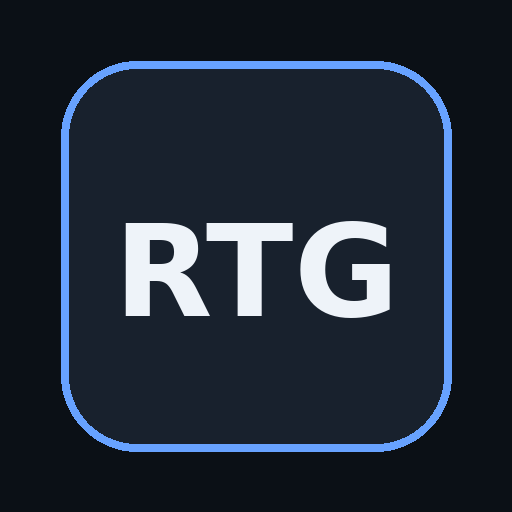
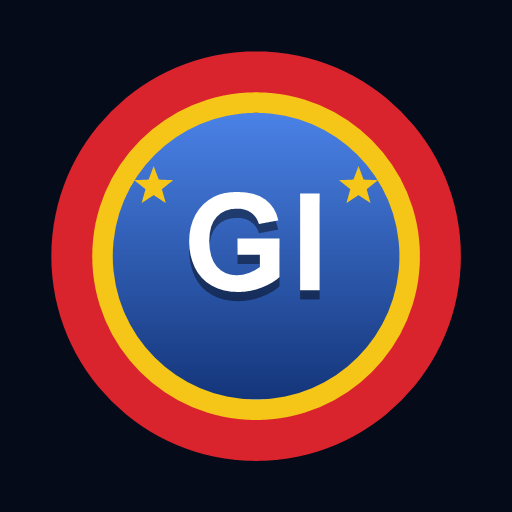
V6 : theme GIGN (bleu, or, rouge), nouvelles icones, signal du chrono plus long

diff --git a/index.html b/index.html
@@ -3,7 +3,7 @@
 <head>
   <meta charset="UTF-8">
   <meta name="viewport" content="width=device-width, initial-scale=1, viewport-fit=cover">
-  <meta name="theme-color" content="#0c1118">
+  <meta name="theme-color" content="#050b18">
   <meta name="color-scheme" content="dark">
   <meta name="description" content="ROAD TO GI : programme d'entraînement, charges, chronos et suivi, utilisable hors ligne.">
   <meta name="apple-mobile-web-app-capable" content="yes">
@@ -11,7 +11,7 @@
   <meta name="apple-mobile-web-app-title" content="ROAD TO GI">
   <title>ROAD TO GI</title>
   <style>
-:root{--bg:#0b1016;--surface:#121923;--surface2:#18212d;--line:#273240;--text:#eef3f9;--muted:#8f9dad;--accent:#67a2ff;--accent2:#2c66b8;--good:#58d39b;--warn:#f2bb5f;--danger:#ff6b73;--shadow:0 10px 30px rgba(0,0,0,.22)}*{box-sizing:border-box}html{background:var(--bg)}body{margin:0;background:var(--bg);color:var(--text);font-family:Inter,ui-sans-serif,system-ui,-apple-system,BlinkMacSystemFont,"Segoe UI",sans-serif;min-height:100vh}button,input,select,textarea{font:inherit}button{cursor:pointer}.shell{width:min(820px,100%);margin:auto;min-height:100vh;padding-bottom:92px}.topbar{position:sticky;top:0;z-index:20;background:rgba(11,16,22,.94);backdrop-filter:blur(16px);border-bottom:1px solid var(--line);padding:14px 16px;display:flex;align-items:center;justify-content:space-between;gap:12px}.brand{display:flex;align-items:center;gap:11px;min-width:0}.brandmark{width:42px;height:42px;border-radius:12px;background:var(--surface2);display:grid;place-items:center;border:1px solid var(--line);font-weight:900;color:var(--accent)}.brand h1{font-size:17px;letter-spacing:1.4px;margin:0}.brand p{font-size:12px;color:var(--muted);margin:2px 0 0}.top-controls{display:flex;gap:8px}.compact-select{appearance:none;border:1px solid var(--line);background:var(--surface);color:var(--text);border-radius:10px;padding:9px 26px 9px 10px;font-size:12px}.main{padding:16px}.hero{background:linear-gradient(135deg,#172230,#101720);border:1px solid var(--line);border-radius:20px;padding:20px;margin-bottom:14px;box-shadow:var(--shadow)}.eyebrow{font-size:11px;letter-spacing:1.6px;font-weight:800;color:var(--accent);margin:0 0 8px}.hero h2{font-size:28px;line-height:1.05;margin:0 0 8px}.muted{color:var(--muted)}.hero p{margin:0}.hero-actions{display:flex;gap:10px;flex-wrap:wrap;margin-top:16px}.btn{border:1px solid var(--line);background:var(--surface2);color:var(--text);min-height:44px;border-radius:11px;padding:10px 14px;font-weight:750}.btn.primary{background:var(--accent);color:#07111e;border-color:transparent}.btn.good{background:var(--good);color:#082015;border-color:transparent}.btn.danger{color:#ffdfe1;border-color:#6b3037;background:#25161a}.btn.ghost{background:transparent}.grid{display:grid;gap:12px}.stats{grid-template-columns:repeat(4,minmax(0,1fr));margin-bottom:14px}.stat{background:var(--surface);border:1px solid var(--line);border-radius:15px;padding:14px;min-width:0}.stat span{font-size:11px;color:var(--muted);display:block;margin-bottom:6px}.stat strong{font-size:18px;display:block;overflow-wrap:anywhere}.card{background:var(--surface);border:1px solid var(--line);border-radius:16px;padding:16px;margin-bottom:12px}.card h3,.card h4{margin:0}.card-head{display:flex;justify-content:space-between;gap:10px;align-items:center;margin-bottom:12px}.tag{display:inline-flex;align-items:center;gap:6px;padding:6px 9px;border-radius:999px;background:#1b2b41;color:#a8caff;font-size:11px;font-weight:800}.progress{height:9px;background:#202a36;border-radius:999px;overflow:hidden}.progress>div{height:100%;background:var(--accent);border-radius:inherit}.schedule{display:grid;gap:7px}.schedule-row{border:1px solid var(--line);background:var(--surface2);border-radius:12px;padding:12px;display:grid;grid-template-columns:90px 1fr auto;align-items:center;gap:8px}.schedule-row.today{border-color:#4d82c5;background:#162236}.schedule-row .day{font-size:11px;color:var(--accent);font-weight:900}.schedule-row .kind{font-size:13px;font-weight:700}.schedule-row .arrow{color:var(--muted)}.section-title{font-size:22px;margin:6px 0 14px}.tabs{display:flex;gap:8px;overflow-x:auto;padding-bottom:8px;margin-bottom:8px}.tab{white-space:nowrap;border:1px solid var(--line);background:var(--surface);color:var(--muted);border-radius:999px;padding:9px 12px}.tab.active{background:#1d3350;color:#cfe1ff;border-color:#426a9f}.source-block{white-space:pre-wrap;line-height:1.5;color:#d8e0e9;font-size:13px;background:#0e141c;border:1px solid var(--line);border-radius:12px;padding:13px;max-height:330px;overflow:auto}.source-block.expanded{max-height:none}.source-toggle{margin-top:10px}.worklist{display:grid;gap:7px}.workitem{display:grid;grid-template-columns:36px 1fr;gap:10px;align-items:flex-start;background:var(--surface2);border:1px solid var(--line);padding:11px;border-radius:12px}.workitem input{width:22px;height:22px;margin:1px 0}.workitem.done{opacity:.55}.workitem.done .worktext{text-decoration:line-through}.worktext{font-size:13px;line-height:1.38}.force-grid{display:grid;gap:8px}.force-row{display:grid;grid-template-columns:1fr 80px 76px 44px;gap:7px;align-items:center;background:var(--surface2);border:1px solid var(--line);border-radius:12px;padding:10px}.force-row input{width:100%;background:#0d141c;color:var(--text);border:1px solid var(--line);border-radius:8px;padding:8px}.force-row .check{width:40px;height:40px;border-radius:9px;border:1px solid var(--line);background:#0f1720;color:var(--text)}.force-row .check.done{background:var(--good);color:#062116}.timer-panel{text-align:center}.timer-display{font-variant-numeric:tabular-nums;font-size:54px;font-weight:900;letter-spacing:1px;margin:4px 0 12px}.timer-status{font-size:12px;color:var(--muted);min-height:18px}.quick-timers{display:flex;gap:7px;flex-wrap:wrap;justify-content:center;margin-top:10px}.quick-timers button{min-width:60px}.form-grid{display:grid;grid-template-columns:repeat(2,minmax(0,1fr));gap:12px}.field label{display:block;color:var(--muted);font-size:12px;margin-bottom:6px}.field input,.field select{width:100%;min-height:46px;background:#0d141c;color:var(--text);border:1px solid var(--line);border-radius:10px;padding:10px 12px;font-size:16px}.notice{padding:12px;border:1px solid #405472;border-radius:12px;background:#142033;color:#cbdcff;font-size:13px;line-height:1.45}.history-row{display:grid;grid-template-columns:1fr auto;gap:10px;padding:12px 0;border-bottom:1px solid var(--line)}.history-row:last-child{border-bottom:0}.history-row small{color:var(--muted)}.bottomnav{position:fixed;left:50%;bottom:0;transform:translateX(-50%);width:min(820px,100%);height:76px;background:rgba(11,16,22,.97);border-top:1px solid var(--line);display:grid;grid-template-columns:repeat(6,1fr);z-index:30;padding-bottom:env(safe-area-inset-bottom)}.navbtn{border:0;background:transparent;color:#798797;display:flex;flex-direction:column;gap:4px;align-items:center;justify-content:center;font-size:10px}.navbtn b{font-size:18px}.navbtn.active{color:var(--accent)}.empty{padding:26px;text-align:center;color:var(--muted)}.pill-row{display:flex;gap:8px;flex-wrap:wrap}.result{font-size:13px;line-height:1.55}.result strong{color:#fff}.divider{height:1px;background:var(--line);margin:14px 0}.sr-only{position:absolute;width:1px;height:1px;padding:0;margin:-1px;overflow:hidden;clip:rect(0,0,0,0);white-space:nowrap;border:0}@media(max-width:640px){.stats{grid-template-columns:repeat(2,minmax(0,1fr))}.form-grid{grid-template-columns:1fr}.schedule-row{grid-template-columns:74px 1fr 16px}.force-row{grid-template-columns:1fr 65px 65px 40px}.top-controls{gap:5px}.compact-select{padding-left:8px;padding-right:20px}.hero h2{font-size:24px}.timer-display{font-size:46px}.main{padding:12px}}
+:root{--bg:#050b18;--surface:#0b1730;--surface2:#11224a;--line:#223a70;--text:#f3f6fc;--muted:#94a3c4;--accent:#f5c518;--accent2:#2f64c8;--good:#58d39b;--warn:#f2bb5f;--danger:#ff4f58;--shadow:0 10px 30px rgba(0,0,0,.22)}*{box-sizing:border-box}html{background:var(--bg)}body{margin:0;background:var(--bg);color:var(--text);font-family:Inter,ui-sans-serif,system-ui,-apple-system,BlinkMacSystemFont,"Segoe UI",sans-serif;min-height:100vh}button,input,select,textarea{font:inherit}button{cursor:pointer}.shell{width:min(820px,100%);margin:auto;min-height:100vh;padding-bottom:92px}.topbar{position:sticky;top:0;z-index:20;background:rgba(5,11,24,.94);backdrop-filter:blur(16px);border-bottom:1px solid var(--line);padding:14px 16px;display:flex;align-items:center;justify-content:space-between;gap:12px}.brand{display:flex;align-items:center;gap:11px;min-width:0}.brandmark{width:42px;height:42px;border-radius:12px;background:var(--surface2);display:grid;place-items:center;border:1px solid var(--line);font-weight:900;color:var(--accent)}.brand h1{font-size:17px;letter-spacing:1.4px;margin:0}.brand p{font-size:12px;color:var(--muted);margin:2px 0 0}.top-controls{display:flex;gap:8px}.compact-select{appearance:none;border:1px solid var(--line);background:var(--surface);color:var(--text);border-radius:10px;padding:9px 26px 9px 10px;font-size:12px}.main{padding:16px}.hero{background:linear-gradient(135deg,#16356f,#0a1631);border:1px solid var(--line);border-radius:20px;padding:20px;margin-bottom:14px;box-shadow:var(--shadow)}.eyebrow{font-size:11px;letter-spacing:1.6px;font-weight:800;color:var(--accent);margin:0 0 8px}.hero h2{font-size:28px;line-height:1.05;margin:0 0 8px}.muted{color:var(--muted)}.hero p{margin:0}.hero-actions{display:flex;gap:10px;flex-wrap:wrap;margin-top:16px}.btn{border:1px solid var(--line);background:var(--surface2);color:var(--text);min-height:44px;border-radius:11px;padding:10px 14px;font-weight:750}.btn.primary{background:var(--accent);color:#050b18;border-color:transparent}.btn.good{background:var(--good);color:#082015;border-color:transparent}.btn.danger{color:#ffdfe1;border-color:#7a232b;background:#2a1219}.btn.ghost{background:transparent}.grid{display:grid;gap:12px}.stats{grid-template-columns:repeat(4,minmax(0,1fr));margin-bottom:14px}.stat{background:var(--surface);border:1px solid var(--line);border-radius:15px;padding:14px;min-width:0}.stat span{font-size:11px;color:var(--muted);display:block;margin-bottom:6px}.stat strong{font-size:18px;display:block;overflow-wrap:anywhere}.card{background:var(--surface);border:1px solid var(--line);border-radius:16px;padding:16px;margin-bottom:12px}.card h3,.card h4{margin:0}.card-head{display:flex;justify-content:space-between;gap:10px;align-items:center;margin-bottom:12px}.tag{display:inline-flex;align-items:center;gap:6px;padding:6px 9px;border-radius:999px;background:#1a2f63;color:#ffd84d;font-size:11px;font-weight:800}.progress{height:9px;background:#16275a;border-radius:999px;overflow:hidden}.progress>div{height:100%;background:var(--accent);border-radius:inherit}.schedule{display:grid;gap:7px}.schedule-row{border:1px solid var(--line);background:var(--surface2);border-radius:12px;padding:12px;display:grid;grid-template-columns:90px 1fr auto;align-items:center;gap:8px}.schedule-row.today{border-color:#f5c518;background:#14295c}.schedule-row .day{font-size:11px;color:var(--accent);font-weight:900}.schedule-row .kind{font-size:13px;font-weight:700}.schedule-row .arrow{color:var(--muted)}.section-title{font-size:22px;margin:6px 0 14px}.tabs{display:flex;gap:8px;overflow-x:auto;padding-bottom:8px;margin-bottom:8px}.tab{white-space:nowrap;border:1px solid var(--line);background:var(--surface);color:var(--muted);border-radius:999px;padding:9px 12px}.tab.active{background:#1b3770;color:#fff1b8;border-color:#d8ac12}.source-block{white-space:pre-wrap;line-height:1.5;color:#dbe3f3;font-size:13px;background:#070f22;border:1px solid var(--line);border-radius:12px;padding:13px;max-height:330px;overflow:auto}.source-block.expanded{max-height:none}.source-toggle{margin-top:10px}.worklist{display:grid;gap:7px}.workitem{display:grid;grid-template-columns:36px 1fr;gap:10px;align-items:flex-start;background:var(--surface2);border:1px solid var(--line);padding:11px;border-radius:12px}.workitem input{width:22px;height:22px;margin:1px 0}.workitem.done{opacity:.55}.workitem.done .worktext{text-decoration:line-through}.worktext{font-size:13px;line-height:1.38}.force-grid{display:grid;gap:8px}.force-row{display:grid;grid-template-columns:1fr 80px 76px 44px;gap:7px;align-items:center;background:var(--surface2);border:1px solid var(--line);border-radius:12px;padding:10px}.force-row input{width:100%;background:#070f22;color:var(--text);border:1px solid var(--line);border-radius:8px;padding:8px}.force-row .check{width:40px;height:40px;border-radius:9px;border:1px solid var(--line);background:#09142b;color:var(--text)}.force-row .check.done{background:var(--good);color:#062116}.timer-panel{text-align:center}.timer-display{font-variant-numeric:tabular-nums;font-size:54px;font-weight:900;letter-spacing:1px;margin:4px 0 12px}.timer-status{font-size:12px;color:var(--muted);min-height:18px}.quick-timers{display:flex;gap:7px;flex-wrap:wrap;justify-content:center;margin-top:10px}.quick-timers button{min-width:60px}.form-grid{display:grid;grid-template-columns:repeat(2,minmax(0,1fr));gap:12px}.field label{display:block;color:var(--muted);font-size:12px;margin-bottom:6px}.field input,.field select{width:100%;min-height:46px;background:#070f22;color:var(--text);border:1px solid var(--line);border-radius:10px;padding:10px 12px;font-size:16px}.notice{padding:12px;border:1px solid #2f4f94;border-radius:12px;background:#0f2250;color:#dbe6ff;font-size:13px;line-height:1.45}.history-row{display:grid;grid-template-columns:1fr auto;gap:10px;padding:12px 0;border-bottom:1px solid var(--line)}.history-row:last-child{border-bottom:0}.history-row small{color:var(--muted)}.bottomnav{position:fixed;left:50%;bottom:0;transform:translateX(-50%);width:min(820px,100%);height:76px;background:rgba(5,11,24,.97);border-top:1px solid var(--line);display:grid;grid-template-columns:repeat(6,1fr);z-index:30;padding-bottom:env(safe-area-inset-bottom)}.navbtn{border:0;background:transparent;color:#8191b5;display:flex;flex-direction:column;gap:4px;align-items:center;justify-content:center;font-size:10px}.navbtn b{font-size:18px}.navbtn.active{color:var(--accent)}.empty{padding:26px;text-align:center;color:var(--muted)}.pill-row{display:flex;gap:8px;flex-wrap:wrap}.result{font-size:13px;line-height:1.55}.result strong{color:#fff}.divider{height:1px;background:var(--line);margin:14px 0}.sr-only{position:absolute;width:1px;height:1px;padding:0;margin:-1px;overflow:hidden;clip:rect(0,0,0,0);white-space:nowrap;border:0}@media(max-width:640px){.stats{grid-template-columns:repeat(2,minmax(0,1fr))}.form-grid{grid-template-columns:1fr}.schedule-row{grid-template-columns:74px 1fr 16px}.force-row{grid-template-columns:1fr 65px 65px 40px}.top-controls{gap:5px}.compact-select{padding-left:8px;padding-right:20px}.hero h2{font-size:24px}.timer-display{font-size:46px}.main{padding:12px}}
   
 /* Modification rapide des RM */
 .rm-head{
@@ -51,7 +51,7 @@
     padding:10px;
     border:1px solid var(--line);
     border-radius:12px;
-    background:#0d141c;
+    background:#070f22;
 }
 .rm-inline-editor label{
     flex:1;
@@ -66,7 +66,7 @@
     padding:8px 10px;
     border:1px solid var(--line);
     border-radius:9px;
-    background:#0a1016;
+    background:#050c1b;
     color:var(--text);
     font-size:16px;
 }
@@ -78,7 +78,7 @@
 }
 .course-session-tabs .btn.active{
     background:var(--accent);
-    color:#fff;
+    color:#050b18;
     border-color:var(--accent);
 }
 .rm-form-grid{
@@ -106,10 +106,10 @@
 .renfo-row input[type=checkbox]{width:22px;height:22px}.renfo-row label{display:inline-flex;gap:8px;align-items:center}.renfo-options{width:100%;margin:12px 0}.timer-label{min-height:24px;line-height:1.5}.timer-panel{scroll-margin-top:85px}.renfo-complete{opacity:.6}
 
 .inline-timing{margin-top:10px}.inline-timing>.btn{font-size:12px;max-width:100%;text-align:left}.inline-timer-live{margin-top:10px;border-top:1px solid var(--line);padding-top:12px}.inline-timer-time{display:inline-block;font-size:32px;font-variant-numeric:tabular-nums;margin-right:12px}.inline-timer-status{color:var(--accent);font-size:12px}.inline-timer-label{font-size:12px;line-height:1.5;overflow-wrap:anywhere}.inline-timer-live .btn{font-size:12px}.workitem>div{min-width:0}
-.circuit-chrono{padding:16px;background:#15263b;border:1px solid #426a9f;border-radius:14px;margin-bottom:16px}.circuit-timer-display{font-size:42px;font-weight:900;font-variant-numeric:tabular-nums;margin:12px 0}.circuit-timer-label{font-size:13px;line-height:1.5}.circuit-chrono .btn{font-size:12px}
+.circuit-chrono{padding:16px;background:#0f2250;border:1px solid #d8ac12;border-radius:14px;margin-bottom:16px}.circuit-timer-display{font-size:42px;font-weight:900;font-variant-numeric:tabular-nums;margin:12px 0}.circuit-timer-label{font-size:13px;line-height:1.5}.circuit-chrono .btn{font-size:12px}
 .live-clock{font-size:12px;color:var(--accent);margin-top:3px;font-variant-numeric:tabular-nums}.schedule-row{color:var(--text)}.schedule-date{display:block;color:var(--muted);margin-top:4px;font-size:11px}
 
-.wod-card .card-head{align-items:flex-start;flex-wrap:wrap}.wod-card .eyebrow{margin-bottom:5px}.wod-toolbar,.wod-block-actions{display:flex;gap:8px;flex-wrap:wrap;margin:12px 0}.wod-instruction{line-height:1.6;color:#c7d3e1;font-size:13px;margin:10px 0 16px;white-space:normal}.wod-blocks{display:grid;gap:12px}.wod-block{background:#0d151f;border:1px solid var(--line);border-radius:14px;padding:16px}.wod-block h4{font-size:16px}.wod-exercises{display:grid;gap:0}.wod-exercise{margin:0;padding:12px 0;background:transparent;border:0;border-bottom:1px solid var(--line);border-radius:0;grid-template-columns:24px 1fr;gap:12px;align-items:center}.wod-exercise:last-child{border-bottom:0}.wod-exercise .worktext{font-size:14px;line-height:1.55;display:block}.wod-window{display:block;color:var(--accent);font-weight:700;font-size:11px;margin:4px 0}.wod-round-nav{display:flex;align-items:center;gap:10px;flex-wrap:wrap;margin:12px 0;padding:10px;background:#172638;border-radius:10px}.wod-round-nav strong{flex:1;font-size:14px}.wod-round-nav .btn{font-size:12px}.wod-round-nav .btn:disabled{opacity:.35;cursor:default}.wod-rest{display:flex;align-items:center;justify-content:space-between;gap:10px;flex-wrap:wrap;background:#192332;border-left:3px solid var(--accent);padding:12px;border-radius:10px;font-size:13px}.wod-rest .btn,.wod-block-actions .btn{font-size:12px}.wod-clock{background:#15263b;border:1px solid #426a9f;border-radius:12px;padding:16px;margin:12px 0}.wod-clock-time{font-size:38px;font-variant-numeric:tabular-nums;margin-right:12px}.wod-clock-status{color:var(--accent);font-size:12px}.wod-clock-label{font-size:13px;line-height:1.5}.wod-rule{font-size:12px}.wod-block .tag{max-width:100%;white-space:normal}.wod-exercise .btn{font-size:12px;margin-top:8px}
+.wod-card .card-head{align-items:flex-start;flex-wrap:wrap}.wod-card .eyebrow{margin-bottom:5px}.wod-toolbar,.wod-block-actions{display:flex;gap:8px;flex-wrap:wrap;margin:12px 0}.wod-instruction{line-height:1.6;color:#cdd8ee;font-size:13px;margin:10px 0 16px;white-space:normal}.wod-blocks{display:grid;gap:12px}.wod-block{background:#08122a;border:1px solid var(--line);border-radius:14px;padding:16px}.wod-block h4{font-size:16px}.wod-exercises{display:grid;gap:0}.wod-exercise{margin:0;padding:12px 0;background:transparent;border:0;border-bottom:1px solid var(--line);border-radius:0;grid-template-columns:24px 1fr;gap:12px;align-items:center}.wod-exercise:last-child{border-bottom:0}.wod-exercise .worktext{font-size:14px;line-height:1.55;display:block}.wod-window{display:block;color:var(--accent);font-weight:700;font-size:11px;margin:4px 0}.wod-round-nav{display:flex;align-items:center;gap:10px;flex-wrap:wrap;margin:12px 0;padding:10px;background:#0f2250;border-radius:10px}.wod-round-nav strong{flex:1;font-size:14px}.wod-round-nav .btn{font-size:12px}.wod-round-nav .btn:disabled{opacity:.35;cursor:default}.wod-rest{display:flex;align-items:center;justify-content:space-between;gap:10px;flex-wrap:wrap;background:#0e1d40;border-left:3px solid var(--accent);padding:12px;border-radius:10px;font-size:13px}.wod-rest .btn,.wod-block-actions .btn{font-size:12px}.wod-clock{background:#0f2250;border:1px solid #d8ac12;border-radius:12px;padding:16px;margin:12px 0}.wod-clock-time{font-size:38px;font-variant-numeric:tabular-nums;margin-right:12px}.wod-clock-status{color:var(--accent);font-size:12px}.wod-clock-label{font-size:13px;line-height:1.5}.wod-rule{font-size:12px}.wod-block .tag{max-width:100%;white-space:normal}.wod-exercise .btn{font-size:12px;margin-top:8px}
 
 /* V5 : confort iPhone, chrono flottant, sauvegarde */
 html{-webkit-text-size-adjust:100%;text-size-adjust:100%;color-scheme:dark}
@@ -117,14 +117,14 @@ body{-webkit-tap-highlight-color:transparent;overscroll-behavior-y:none}
 button,select,input,label,summary{touch-action:manipulation}
 .topbar{padding-top:calc(14px + env(safe-area-inset-top,0px));padding-left:calc(16px + env(safe-area-inset-left,0px));padding-right:calc(16px + env(safe-area-inset-right,0px))}
 .compact-select{font-size:16px}
-.mini-timer{position:fixed;left:50%;transform:translateX(-50%);bottom:calc(84px + env(safe-area-inset-bottom,0px));width:min(796px,calc(100% - 24px));z-index:25;display:flex;align-items:center;gap:10px;padding:10px 12px;background:#15263b;border:1px solid #426a9f;border-radius:14px;box-shadow:var(--shadow)}
+.mini-timer{position:fixed;left:50%;transform:translateX(-50%);bottom:calc(84px + env(safe-area-inset-bottom,0px));width:min(796px,calc(100% - 24px));z-index:25;display:flex;align-items:center;gap:10px;padding:10px 12px;background:#0f2250;border:1px solid #d8ac12;border-radius:14px;box-shadow:var(--shadow)}
 .mini-timer[hidden]{display:none}
 .mini-timer-info{flex:1;min-width:0;display:flex;align-items:baseline;gap:10px}
 .mini-timer-info strong{font-size:26px;font-variant-numeric:tabular-nums}
-.mini-timer-info span{font-size:12px;color:#a8caff;white-space:nowrap;overflow:hidden;text-overflow:ellipsis;min-width:0}
+.mini-timer-info span{font-size:12px;color:#ffd84d;white-space:nowrap;overflow:hidden;text-overflow:ellipsis;min-width:0}
 .mini-timer .btn{min-height:40px;padding:8px 12px;font-size:13px}
 .mini-timer .btn[hidden]{display:none}
-.backup-text{width:100%;margin-top:12px;background:#0d141c;color:var(--text);border:1px solid var(--line);border-radius:10px;padding:10px;font-size:16px;font-family:ui-monospace,Menlo,Consolas,monospace;resize:vertical}
+.backup-text{width:100%;margin-top:12px;background:#070f22;color:var(--text);border:1px solid var(--line);border-radius:10px;padding:10px;font-size:16px;font-family:ui-monospace,Menlo,Consolas,monospace;resize:vertical}
 .btn:focus-visible,.navbtn:focus-visible,.tab:focus-visible,select:focus-visible,input:focus-visible,textarea:focus-visible{outline:2px solid var(--accent);outline-offset:2px}
 .navbtn{min-height:44px}
 .vma-table{width:100%;border-collapse:collapse;margin-top:14px;font-size:13px;font-variant-numeric:tabular-nums}
@@ -137,9 +137,19 @@ button,select,input,label,summary{touch-action:manipulation}
 .coach-notes summary::-webkit-details-marker{display:none}
 .coach-notes summary::after{content:"+";color:var(--accent);font-size:22px;line-height:1}
 .coach-notes[open] summary::after{content:"–"}
-.coach-notes ul{margin:14px 0 0;padding-left:18px;font-size:13px;line-height:1.6;color:#c7d3e1}
+.coach-notes ul{margin:14px 0 0;padding-left:18px;font-size:13px;line-height:1.6;color:#cdd8ee}
 .coach-notes li{margin-bottom:6px}
 @media (prefers-reduced-motion:reduce){*{scroll-behavior:auto!important;transition:none!important;animation:none!important}}
+
+/* Thème GIGN : bleu marine, or, rouge, blanc (couleurs de la rondache) */
+:root{--gign-red:#d9232d;--gign-gold:#f5c518;--gign-blue:#2f64c8}
+input[type=checkbox],input[type=radio]{accent-color:var(--accent)}
+.brandmark{width:44px;height:44px;border-radius:50%;background:radial-gradient(circle at 50% 36%,#4a82e6 0,#2f64c8 38%,#14357a 100%);border:3px solid var(--gign-gold);box-shadow:0 0 0 2px var(--gign-red),0 3px 10px rgba(0,0,0,.5);color:#fff;font-size:14px;letter-spacing:.5px;text-shadow:0 1px 2px rgba(0,0,0,.55)}
+.topbar{border-bottom:1px solid rgba(245,197,24,.35)}
+.bottomnav{border-top:1px solid rgba(245,197,24,.28)}
+.hero{border-color:#2f4f94}
+.btn.primary{box-shadow:0 2px 0 rgba(0,0,0,.25)}
+.tag{border:1px solid rgba(245,197,24,.25)}
 </style>
 
   <link rel="manifest" href="manifest.json">
@@ -1181,6 +1191,7 @@ let timerPlans={};
 let audioContext=null;
 let soundEnabled=true;
 let countdownBeeps=true;
+let alarmLong=(()=>{try{return localStorage.getItem('roadToGI_alarmLong')!=='0'}catch(e){return true}})();
 let wakeLock=null;
 function complementaryOptions(training){
  if(training==='2')return state.program===1?
@@ -1224,15 +1235,25 @@ function bindComplementary(){
  document.querySelectorAll('[data-accessory-done]').forEach(el=>el.onchange=()=>{state.completed[el.dataset.accessoryDone]=el.checked;save();el.closest('.renfo-row').classList.toggle('renfo-complete',el.checked);});
  document.querySelectorAll('[data-plan]').forEach(el=>el.onclick=()=>{startPlan(timerPlans[el.dataset.plan]);document.querySelector('.timer-panel')?.scrollIntoView({behavior:'smooth',block:'start'});});
 }
-function timerCard(){return `<div class="card timer-panel"><div class="card-head"><h3>Chrono sonore</h3><span id="timerStatus" class="tag">Prêt</span></div><p id="timerLabel" class="timer-label" aria-live="polite"></p><div id="timerDisplay" class="timer-display">00:00</div><div class="pill-row" style="justify-content:center"><button class="btn primary" id="timerStart">Démarrer / Reprendre</button><button class="btn" id="timerPause">Pause</button><button class="btn danger" id="timerReset">Remettre à zéro</button></div><div class="quick-timers">${[30,60,90,120,150,180,240].map(n=>`<button class="btn" data-timer="${n}">${formatTime(n)}</button>`).join('')}</div><div class="rm-inline-editor"><label>Durée personnalisée (secondes)<input id="timerCustom" type="number" min="1" max="86400" step="1" value="120"></label><button class="btn" id="timerCustomStart">Lancer</button></div><div class="pill-row" style="justify-content:center"><label><input id="timerSound" type="checkbox" ${soundEnabled?'checked':''}> Son activé</label><label><input id="timerCountdown" type="checkbox" ${countdownBeeps?'checked':''}> Bips 3-2-1</label><button class="btn" id="timerTestSound">Tester le son</button></div><p class="muted" style="font-size:12px">Garde l’application ouverte à l’écran pendant le chrono et règle le volume de ton téléphone.</p><p id="audioStatus" class="muted" style="font-size:12px" aria-live="polite"></p></div>`;}
+function timerCard(){return `<div class="card timer-panel"><div class="card-head"><h3>Chrono sonore</h3><span id="timerStatus" class="tag">Prêt</span></div><p id="timerLabel" class="timer-label" aria-live="polite"></p><div id="timerDisplay" class="timer-display">00:00</div><div class="pill-row" style="justify-content:center"><button class="btn primary" id="timerStart">Démarrer / Reprendre</button><button class="btn" id="timerPause">Pause</button><button class="btn danger" id="timerReset">Remettre à zéro</button></div><div class="quick-timers">${[30,60,90,120,150,180,240].map(n=>`<button class="btn" data-timer="${n}">${formatTime(n)}</button>`).join('')}</div><div class="rm-inline-editor"><label>Durée personnalisée (secondes)<input id="timerCustom" type="number" min="1" max="86400" step="1" value="120"></label><button class="btn" id="timerCustomStart">Lancer</button></div><div class="pill-row" style="justify-content:center"><label><input id="timerSound" type="checkbox" ${soundEnabled?'checked':''}> Son activé</label><label><input id="timerCountdown" type="checkbox" ${countdownBeeps?'checked':''}> Bips 3-2-1</label><label><input id="timerLong" type="checkbox" ${alarmLong?'checked':''}> Signal long</label><button class="btn" id="timerTestSound">Tester le son</button></div><p class="muted" style="font-size:12px">Garde l’application ouverte à l’écran pendant le chrono et règle le volume de ton téléphone.</p><p id="audioStatus" class="muted" style="font-size:12px" aria-live="polite"></p></div>`;}
 async function unlockAudio(){
  try{const Audio=window.AudioContext||window.webkitAudioContext;if(!Audio)throw Error('Audio indisponible');if(!audioContext)audioContext=new Audio();if(audioContext.state==='suspended')await audioContext.resume();return audioContext.state==='running';}
  catch(e){const el=document.getElementById('audioStatus');if(el)el.textContent='Son indisponible : réessaie avec Tester le son.';return false;}
 }
-function playAlarm(force=false,retried=false){
+function tone(freq,at,dur,peak=.3,type='sine'){
+ const oscillator=audioContext.createOscillator(),gain=audioContext.createGain();
+ oscillator.type=type;oscillator.frequency.value=freq;
+ gain.gain.setValueAtTime(0,at);gain.gain.linearRampToValueAtTime(peak,at+.02);gain.gain.setValueAtTime(peak,at+Math.max(.02,dur-.1));gain.gain.linearRampToValueAtTime(0,at+dur);
+ oscillator.connect(gain);gain.connect(audioContext.destination);oscillator.start(at);oscillator.stop(at+dur+.02);
+ oscillator.onended=()=>{oscillator.disconnect();gain.disconnect();};
+}
+// Signal court : 3 bips (0,7 s). Signal long : 3 bips puis une note tenue, environ 2,3 s en tout.
+function playAlarm(force=false,retried=false,long=alarmLong){
  if(!soundEnabled&&!force)return;if(!audioContext)return;
- if(audioContext.state!=='running'){if(!retried&&audioContext.state!=='closed')audioContext.resume().then(()=>playAlarm(force,true)).catch(()=>{});return;}
- for(let i=0;i<3;i++){const at=audioContext.currentTime+i*.26;const oscillator=audioContext.createOscillator(),gain=audioContext.createGain();oscillator.frequency.value=880;gain.gain.setValueAtTime(0,at);gain.gain.linearRampToValueAtTime(.3,at+.015);gain.gain.setValueAtTime(.3,at+.14);gain.gain.linearRampToValueAtTime(0,at+.2);oscillator.connect(gain);gain.connect(audioContext.destination);oscillator.start(at);oscillator.stop(at+.21);oscillator.onended=()=>{oscillator.disconnect();gain.disconnect();};}
+ if(audioContext.state!=='running'){if(!retried&&audioContext.state!=='closed')audioContext.resume().then(()=>playAlarm(force,true,long)).catch(()=>{});return;}
+ const t0=audioContext.currentTime;
+ for(let i=0;i<3;i++)tone(880,t0+i*.26,.2,.3);
+ if(long){tone(1175,t0+.95,1.3,.32,'triangle');tone(880,t0+.95,1.3,.12,'triangle');}
 }
 function playTick(){
  if(!soundEnabled||!countdownBeeps||!audioContext||audioContext.state!=='running')return;
@@ -1245,15 +1266,15 @@ function releaseScreen(){if(wakeLock){wakeLock.release().catch(()=>{});wakeLock=
 function timerTick(){
  if(timer.mode!=='running')return;
  if(timer.initial>0){
-  let crossed=false;const now=Date.now();
+  let crossed=false,ended=0;const now=Date.now();
   while(now>=timer.deadline&&timer.mode==='running'){
-   crossed=true;
+   crossed=true;ended=timer.initial;
    if(timer.index+1<timer.plan.length){timer.index++;const step=timer.plan[timer.index];timer.initial=step.seconds;timer.label=step.label;timer.deadline+=step.seconds*1000;}
    else{timer.mode='done';timer.seconds=0;clearInterval(timer.interval);timer.interval=null;releaseScreen();}
   }
-  if(crossed){playAlarm();try{navigator.vibrate?.([200,100,200]);}catch(e){}}
+  if(crossed){const long=alarmLong&&(timer.mode==='done'||ended>=30);playAlarm(false,false,long);try{navigator.vibrate?.(long?[300,100,300,100,600]:[200,100,200]);}catch(e){}}
   if(timer.mode==='running'){timer.seconds=Math.max(0,Math.ceil((timer.deadline-now)/1000));if(timer.initial>=8&&timer.seconds>=1&&timer.seconds<=3){const tick=timer.index+'-'+timer.seconds;if(timer.lastTick!==tick){timer.lastTick=tick;playTick();}}}
- }else{timer.seconds=Math.floor((Date.now()-timer.startedAt)/1000);if(timer.repeatEvery){const alarms=Math.floor(timer.seconds/timer.repeatEvery);if(alarms>timer.lastAlarm){timer.lastAlarm=alarms;playAlarm();}}}
+ }else{timer.seconds=Math.floor((Date.now()-timer.startedAt)/1000);if(timer.repeatEvery){const alarms=Math.floor(timer.seconds/timer.repeatEvery);if(alarms>timer.lastAlarm){timer.lastAlarm=alarms;playAlarm(false,false,alarmLong&&timer.repeatEvery>=30);}}}
  paintTimer();
 }
 function paintTimer(){const d=document.getElementById('timerDisplay'),s=document.getElementById('timerStatus'),l=document.getElementById('timerLabel');if(d)d.textContent=formatTime(timer.seconds);if(s)s.textContent=timer.mode==='running'?'En cours':timer.mode==='paused'?'Pause':timer.mode==='done'?'Terminé':'Prêt';if(l)l.textContent=timer.label+(timer.plan.length>1?` · Étape ${timer.index+1}/${timer.plan.length}`:'');paintInlineTimer();paintMiniTimer();}
@@ -1274,7 +1295,7 @@ function startTimer(seconds=null){
 }
 function pauseTimer(){if(timer.mode==='running'){timerTick();if(timer.mode!=='running')return;if(timer.initial>0)timer.seconds=Math.max(0,(timer.deadline-Date.now())/1000);else timer.seconds=(Date.now()-timer.startedAt)/1000;clearInterval(timer.interval);timer.interval=null;timer.mode='paused';releaseScreen();paintTimer();}}
 function resetTimer(){if(timer.interval)clearInterval(timer.interval);releaseScreen();timer={mode:'idle',seconds:0,initial:0,interval:null,startedAt:null,plan:[],index:0,deadline:0,label:''};paintTimer();}
-function bindTimer(){const st=document.getElementById('timerStart'),pa=document.getElementById('timerPause'),re=document.getElementById('timerReset');if(st)st.onclick=()=>startTimer();if(pa)pa.onclick=pauseTimer;if(re)re.onclick=resetTimer;document.querySelectorAll('[data-timer]').forEach(b=>b.onclick=()=>startTimer(+b.dataset.timer));const custom=document.getElementById('timerCustomStart');if(custom)custom.onclick=()=>{const input=document.getElementById('timerCustom');if(input.reportValidity())startTimer(Number(input.value));};const sound=document.getElementById('timerSound');if(sound)sound.onchange=()=>{soundEnabled=sound.checked;if(soundEnabled)unlockAudio();};const countdown=document.getElementById('timerCountdown');if(countdown)countdown.onchange=()=>{countdownBeeps=countdown.checked;};const test=document.getElementById('timerTestSound');if(test)test.onclick=async()=>{if(await unlockAudio()){playAlarm(true);const el=document.getElementById('audioStatus');if(el)el.textContent='Signal envoyé · vérifie le volume.';}};paintTimer();}
+function bindTimer(){const st=document.getElementById('timerStart'),pa=document.getElementById('timerPause'),re=document.getElementById('timerReset');if(st)st.onclick=()=>startTimer();if(pa)pa.onclick=pauseTimer;if(re)re.onclick=resetTimer;document.querySelectorAll('[data-timer]').forEach(b=>b.onclick=()=>startTimer(+b.dataset.timer));const custom=document.getElementById('timerCustomStart');if(custom)custom.onclick=()=>{const input=document.getElementById('timerCustom');if(input.reportValidity())startTimer(Number(input.value));};const sound=document.getElementById('timerSound');if(sound)sound.onchange=()=>{soundEnabled=sound.checked;if(soundEnabled)unlockAudio();};const countdown=document.getElementById('timerCountdown');if(countdown)countdown.onchange=()=>{countdownBeeps=countdown.checked;};const longBox=document.getElementById('timerLong');if(longBox)longBox.onchange=()=>{alarmLong=longBox.checked;try{localStorage.setItem('roadToGI_alarmLong',alarmLong?'1':'0')}catch(e){}};const test=document.getElementById('timerTestSound');if(test)test.onclick=async()=>{if(await unlockAudio()){playAlarm(true);const el=document.getElementById('audioStatus');if(el)el.textContent='Signal envoyé · vérifie le volume.';}};paintTimer();}
 document.addEventListener('visibilitychange',()=>{if(document.visibilityState!=='visible')return;if(audioContext&&audioContext.state!=='running'&&audioContext.state!=='closed')audioContext.resume().catch(()=>{});if(timer.mode==='running'){timerTick();if(timer.mode==='running')holdScreen();}});
 
 

diff --git a/service-worker.js b/service-worker.js
@@ -1,4 +1,4 @@
-const CACHE='road-to-gi-v5';
+const CACHE='road-to-gi-v6';
 const ASSETS=['./','./index.html','./manifest.json','./icon-192.png','./icon-512.png','./apple-touch-icon.png'];
 const NETWORK_TIMEOUT=3500;
 self.addEventListener('install',e=>e.waitUntil(caches.open(CACHE).then(c=>c.addAll(ASSETS)).then(()=>self.skipWaiting())));
